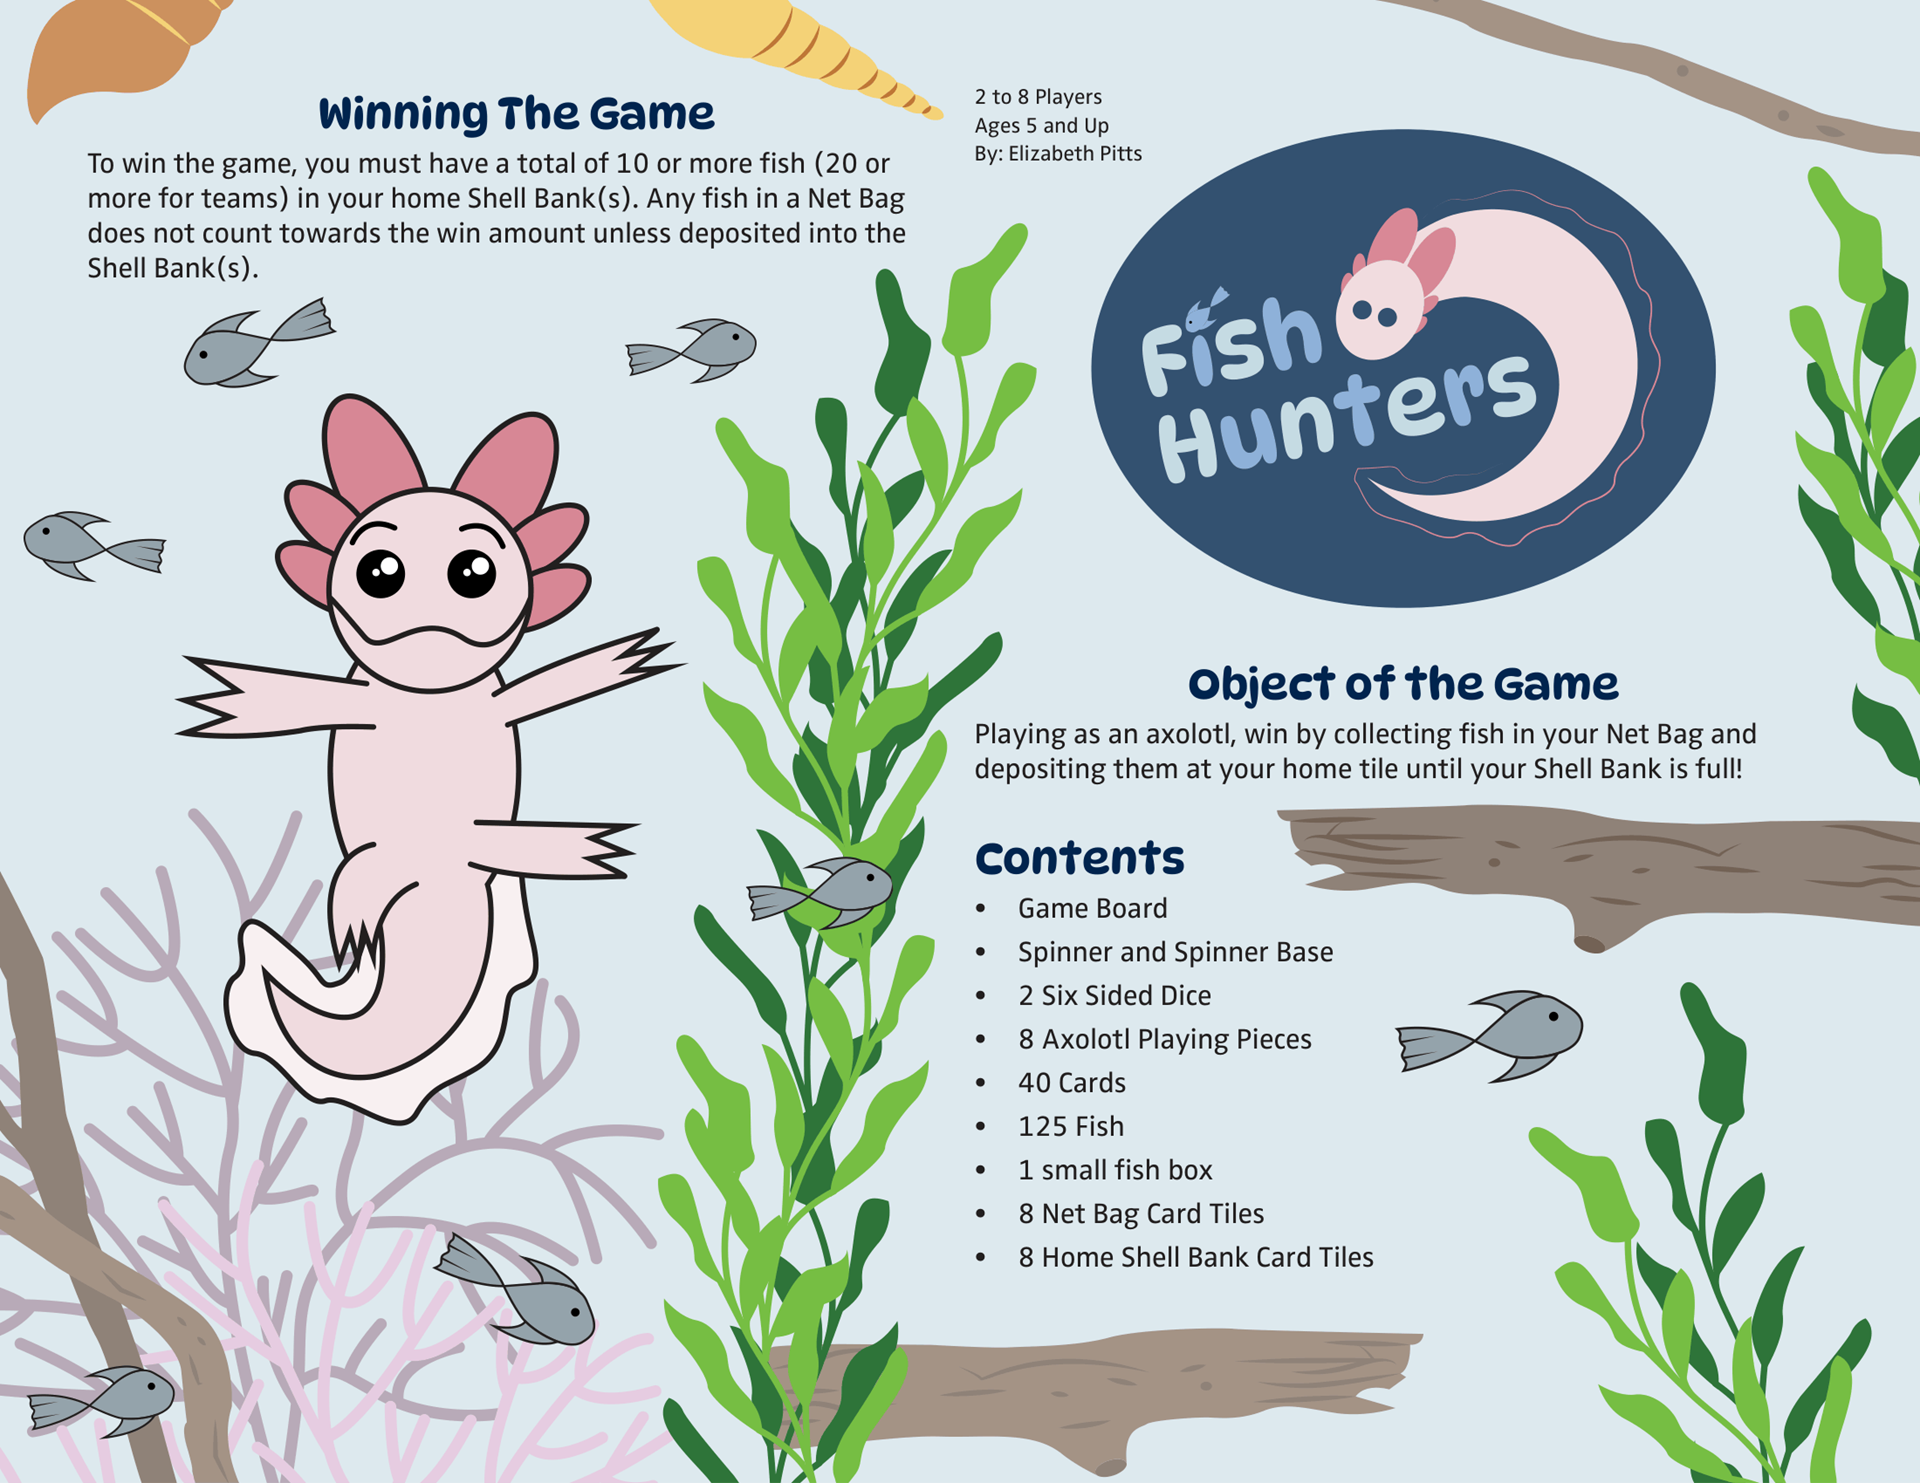
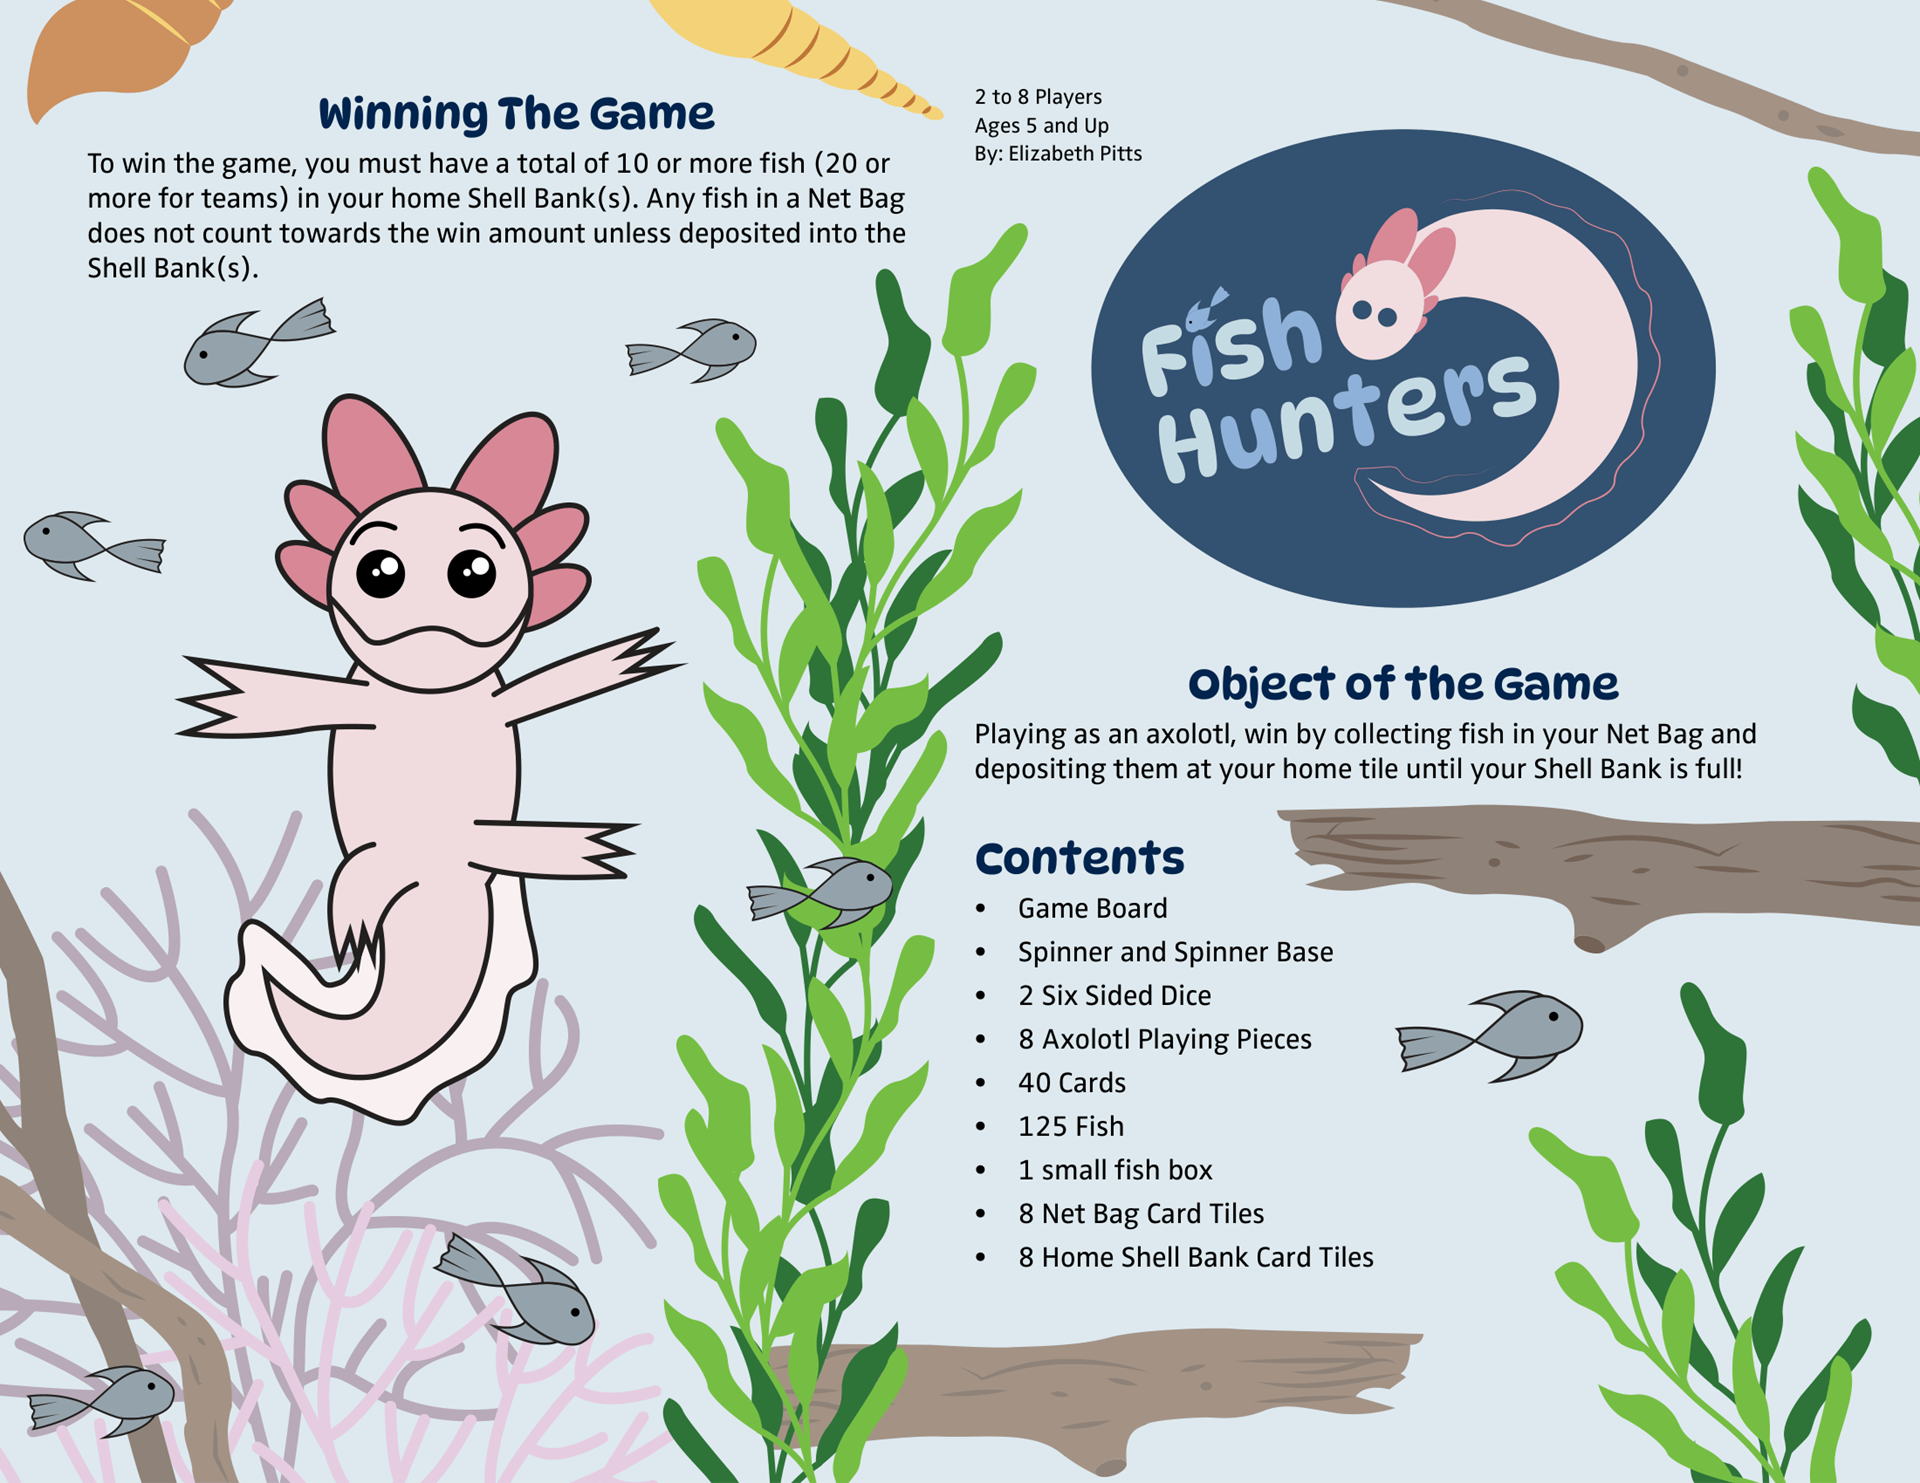
Fixing image Layouts

diff --git a/fish-hunters.html b/fish-hunters.html
@@ -48,16 +48,17 @@
 									<h2>Gameboard</h2>
 									<p>Fish Hunters is an original game concept developed and designed by LizBiz Designs, including a game board, playing pieces, cards and more! Starting with research after brain-storming a game idea, the layout of the board and the graphics for it was sketched out. During the designing phase, a challenege discovered was that the initial board design allowed for movement in any direction, but as the game developed, movement needed to flow in only one direction to support game play. To resolve this, the inital path structure was changed to better support movement in one direction.</p>
 													<div class="box alt">
-														<div class="row gtr-50 gtr-uniform">
-															<div class="col-4"><span class="image fit"><img src="images/Fish Hunters/Gameboard/gameboard-layout-sketch.jpg" alt="" /></span></div>
-															<div class="col-4"><span class="image fit"><img src="images/Fish Hunters/Gameboard/Envriomental graphics sketch.jpg" alt="" /></span></div>
-															<div class="col-4"><span class="image fit"><img src="images/Fish Hunters/Gameboard/revised-gameboard-sketch.jpg" alt="" /></span></div>
-															<!-- Break -->
-															<div class="col-4"><span class="image fit"><img src="images/Fish Hunters/Gameboard/Game Board wip ver 1.png" alt="" /></span></div>
-															<div class="col-4"><span class="image fit"><img src="images/Fish Hunters/Gameboard/game-path-draft-1.png" alt="" /></span></div>
-															<div class="col-4"><span class="image fit"><img src="images/Fish Hunters/Gameboard/game-path-draft-2.png" alt="" /></span></div>
+														 <ul class="actions fit">
+																<li><span class="image fit"><img src="images/Fish Hunters/Gameboard/gameboard-layout-sketch.jpg" alt="" /></span></li>
+																<li><span class="image fit"><img src="images/Fish Hunters/Gameboard/Envriomental graphics sketch.jpg" alt="" /></span></li>
+																<li><span class="image fit"><img src="images/Fish Hunters/Gameboard/revised-gameboard-sketch.jpg" alt="" /></span></li>
+															 </ul>
+															  <ul class="actions fit">
+																<li><span class="image fit"><img src="images/Fish Hunters/Gameboard/Game Board wip ver 1.png" alt="" /></span></li>
+																<li><span class="image fit"><img src="images/Fish Hunters/Gameboard/game-path-draft-1.png" alt="" /></span></li>
+																<li><span class="image fit"><img src="images/Fish Hunters/Gameboard/game-path-draft-2.png" alt="" /></span></li>
+															 </ul>
 															<span class="image fit"><img src="images/Fish Hunters/Gameboard/Fish Hunters Game Board 3.0.svg" alt="" /></span>
-														</div>
 													</div>
 									<a href="#" class="button primary fit">Back To Top</a>
 								</section>	
@@ -66,31 +67,35 @@
 									<h2 id="game-pieces">Game Pieces</h2>
 										<p>To support game-play, a deck of draw cards was needed, along side square cards used to hold the fish you would gain during play. The cards were created using Adobe Illustrator. Playing pieces were also needed and were created using polymer clay. The Instructions were drafted up and created in Adobe Indesign</p>
 													<div class="box alt">
-														<div class="row gtr-50 gtr-uniform">
-															<div class="col-4"><span class="image fit"><img src="images/Fish Hunters/Game Pieces/card-type-sketch.jpg" alt="" /></span></div>
-															<div class="col-4"><span class="image fit"><img src="images/Fish Hunters/Game Pieces/card-art-sketch.jpg" alt="" /></span></div>
-															<div class="col-4"><span class="image fit"><img src="images/Fish Hunters/Game Pieces/fish-hunters-logo-sketch.jpg" alt="" /></span></div>
-															<!-- Break -->
-															<div class="col-4"><span class="image fit"><img src="images/Fish Hunters/Game Pieces/card-design-wip-1.png" alt="" /></span></div>
-															<div class="col-4"><span class="image fit"><img src="images/Fish Hunters/Game Pieces/card-design-wip-2.png" alt="" /></span></div>
-															<div class="col-4"><span class="image fit"><img src="images/Fish Hunters/Game Pieces/instructions-closed.png" alt="" /></span></div>
-															<!-- Break -->
-															<div class="col-4"><span class="image fit"><img src="images/Fish Hunters/Game Pieces/art-cards.png" alt="" /></span></div>
-															<div class="col-4"><span class="image fit"><img src="images/Fish Hunters/Game Pieces/gain-cards.png" alt="" /></span></div>
-															<div class="col-4"><span class="image fit"><img src="images/Fish Hunters/Game Pieces/lose-cards.png" alt="" /></span></div>
+														 <ul class="actions fit">
+																<li><span class="image fit"><img src="images/Fish Hunters/Game Pieces/card-type-sketch.jpg" alt="" /></span></li>
+																<li><span class="image fit"><img src="images/Fish Hunters/Game Pieces/card-art-sketch.jpg" alt="" /></span></li>
+																<li><span class="image fit"><img src="images/Fish Hunters/Game Pieces/fish-hunters-logo-sketch.jpg" alt="" /></span></li>
+															 </ul>
+															  <ul class="actions fit">
+																<li><span class="image fit"><img src="images/Fish Hunters/Game Pieces/card-design-wip-1.png" alt="" /></span></li>
+																<li><span class="image fit"><img src="images/Fish Hunters/Game Pieces/card-design-wip-2.png" alt="" /></span></li>
+																<li><span class="image fit"><img src="images/Fish Hunters/Game Pieces/instructions-closed.png" alt="" /></span></li>
+															 </ul>
+															  <ul class="actions fit">
+																<li><span class="image fit"><img src="images/Fish Hunters/Game Pieces/art-cards.png" alt="" /></span></li>
+																<li><span class="image fit"><img src="images/Fish Hunters/Game Pieces/gain-cards.png" alt="" /></span></li>
+																<li><span class="image fit"><img src="images/Fish Hunters/Game Pieces/lose-cards.png" alt="" /></span></li>
+															 </ul>
 															<span class="image fit"><img src="images/Fish Hunters/Game Pieces/instructions-1.png" alt="" /></span>
 															<span class="image fit"><img src="images/Fish Hunters/Game Pieces/instructions-2.png" alt="" /></span>
-															<!-- Break -->
-															<div class="col-4"><span class="image fit"><img src="images/Fish Hunters/Axolotl Character sketches.jpg" alt="" /></span></div>
-															<div class="col-4"><span class="image fit"><img src="images/Fish Hunters/Game Pieces/game-pieces-sketch.jpg" alt="" /></span></div>
-															<div class="col-4"><span class="image fit"><img src="images/Fish Hunters/Game Pieces/axolotl-circle.png" alt="" /></span></div>
-															<!-- Break -->
-															<div class="col-4"><span class="image fit"><img src="images/Fish Hunters/Game Pieces/light-axolotls.png" alt="" /></span></div>
-															<div class="col-4"><span class="image fit"><img src="images/Fish Hunters/Game Pieces/dark-axolotls.png" alt="" /></span></div>
-															<div class="col-4"><span class="image fit"><img src="images/Fish Hunters/Game Pieces/spinner.png" alt="" /></span></div>
+															  <ul class="actions fit">
+																<li><span class="image fit"><img src="images/Fish Hunters/Axolotl Character sketches.jpg" alt="" /></span></li>
+																<li><span class="image fit"><img src="images/Fish Hunters/Game Pieces/game-pieces-sketch.jpg" alt="" /></span></li>
+																<li><span class="image fit"><img src="images/Fish Hunters/Game Pieces/axolotl-circle.png" alt="" /></span></li>
+															 </ul>
+															  <ul class="actions fit">
+																<li><span class="image fit"><img src="images/Fish Hunters/Game Pieces/light-axolotls.png" alt="" /></span></li>
+																<li><span class="image fit"><img src="images/Fish Hunters/Game Pieces/dark-axolotls.png" alt="" /></span></li>
+																<li><span class="image fit"><img src="images/Fish Hunters/Game Pieces/spinner.png" alt="" /></span></li>
+															 </ul>
 															<p>With all the pieces together and layed out with the gameboard, the game is able to be played.</p>
 															<span class="image fit"><img src="images/Fish Hunters/Gameboard/Game Layout 3.0.png" alt="" /></span>
-														</div>
 													</div>
 									<a href="#" class="button primary fit">Back To Top</a>
 								</section>
@@ -99,28 +104,32 @@
 									<h2 id="packaging">Packaging</h2>
 										<p>The next step in creating a game from the ground up, was to then design the packaging that would fit the game-board and all the supporting game-play pieces. A challenge while designing the packaging was to plan for all the pieces to fit into the packaging while keeping the packaging as small as possible to save on cost of material.</p>
 										<div class="box alt">
-														<div class="row gtr-50 gtr-uniform">
-															<div class="col-4"><span class="image fit"><img src="images/Fish Hunters/Packaging/gameboard lid.jpg" alt="" /></span></div>
-															<div class="col-4"><span class="image fit"><img src="images/Fish Hunters/Packaging/Cut templates for fish-1.png" alt="" /></span></div>
-															<div class="col-4"><span class="image fit"><img src="images/Fish Hunters/Packaging/Fish Box Graphics print format-1.png" alt="" /></span></div>
-															<!-- Break -->
-															<div class="col-4"><span class="image fit"><img src="images/Fish Hunters/Packaging/Packaging-outline-lid.png" alt="" /></span></div>
-															<div class="col-4"><span class="image fit"><img src="images/Fish Hunters/Packaging/package lid rough comp 1.png" alt="" /></span></div>
-															<div class="col-4"><span class="image fit"><img src="images/Fish Hunters/Packaging/Fish Hunters packaging Print Format-1.png" alt="" /></span></div>
-															<!-- Break -->
-															<div class="col-4"><span class="image fit"><img src="images/Fish Hunters/Packaging/packaging-wip-base.png" alt="" /></span></div>
-															<div class="col-4"><span class="image fit"><img src="images/Fish Hunters/Packaging/package base rough comp 1.png" alt="" /></span></div>
-															<div class="col-4"><span class="image fit"><img src="images/Fish Hunters/Packaging/Fish Hunters packaging Print Format-2.png" alt="" /></span></div>
-															<!-- Break -->
-															<div class="col-4"><span class="image fit"><img src="images/Fish Hunters/Packaging/Lid Side with Business Logo.png" alt="" /></span></div>
-															<div class="col-4"><span class="image fit"><img src="images/Fish Hunters/Packaging/Base Pink Side.png" alt="" /></span></div>
-															<div class="col-4"><span class="image fit"><img src="images/Fish Hunters/Packaging/Base Green Side.png" alt="" /></span></div>
-															<!-- Break -->
-															<div class="col-4"><span class="image fit"><img src="images/Fish Hunters/Packaging/Lid Side with Info.png" alt="" /></span></div>
-															<div class="col-4"><span class="image fit"><img src="images/Fish Hunters/Packaging/Base Orange Side.png" alt="" /></span></div>
-															<div class="col-4"><span class="image fit"><img src="images/Fish Hunters/Packaging/Base Brown Side.png" alt="" /></span></div>
+											<ul class="actions fit">
+																<li><span class="image fit"><img src="images/Fish Hunters/Packaging/gameboard lid.jpg" alt="" /></span></li>
+																<li><span class="image fit"><img src="images/Fish Hunters/Packaging/Cut templates for fish-1.png" alt="" /></span></li>
+																<li><span class="image fit"><img src="images/Fish Hunters/Packaging/Fish Box Graphics print format-1.png" alt="" /></span></li>
+															 </ul>
+															 <ul class="actions fit">
+																<li><span class="image fit"><img src="images/Fish Hunters/Packaging/Packaging-outline-lid.png" alt="" /></span></li>
+																<li><span class="image fit"><img src="images/Fish Hunters/Packaging/package lid rough comp 1.png" alt="" /></span></li>
+																<li><span class="image fit"><img src="images/Fish Hunters/Packaging/Fish Hunters packaging Print Format-1.png" alt="" /></span></li>
+															 </ul>
+															 <ul class="actions fit">
+																<li><span class="image fit"><img src="images/Fish Hunters/Packaging/packaging-wip-base.png" alt="" /></span></li>
+																<li><span class="image fit"><img src="images/Fish Hunters/Packaging/package base rough comp 1.png" alt="" /></span></li>
+																<li><span class="image fit"><img src="images/Fish Hunters/Packaging/Fish Hunters packaging Print Format-2.png" alt="" /></span></li>
+															 </ul>
+															 <ul class="actions fit">
+																<li><span class="image fit"><img src="images/Fish Hunters/Packaging/Lid Side with Business Logo.png" alt="" /></span></li>
+																<li><span class="image fit"><img src="images/Fish Hunters/Packaging/Base Pink Side.png" alt="" /></span></li>
+																<li><span class="image fit"><img src="images/Fish Hunters/Packaging/Base Green Side.png" alt="" /></span></li>
+															 </ul>
+															 <ul class="actions fit">
+																<li><span class="image fit"><img src="images/Fish Hunters/Packaging/Lid Side with Info.png" alt="" /></span></li>
+																<li><span class="image fit"><img src="images/Fish Hunters/Packaging/Base Orange Side.png" alt="" /></span></li>
+																<li><span class="image fit"><img src="images/Fish Hunters/Packaging/Base Brown Side.png" alt="" /></span></li>
+															 </ul>
 															<span class="image fit"><img src="images/Fish Hunters/Packaging/Base & Lid.png" alt="" /></span>
-														</div>
 													</div>
 									<a href="#" class="button primary fit">Back To Top</a>
 								</section>
@@ -129,22 +138,24 @@
 									<h2 id="app">E-commerce App</h2>
 										<p>The app mock up for Fish Hunters was designed in Figma. Utilizing Adobe Photoshop template mock ups, merch was able to be created to fill out the app and make it feel more real.</p>
 										<div class="box alt">
-														<div class="row gtr-50 gtr-uniform">
-															<span class="image fit"><img src="images/Fish Hunters/App/Wire Frames static.png" alt="" /></span>
-															<span class="image fit"><img src="images/Fish Hunters/App/Wire Frames Fuctional.png" alt="" /></span>
-															<div class="col-4"><span class="image fit"><img src="images/Fish Hunters/App/Wireframes test phone.png" alt="" /></span></div>
-															<div class="col-4"><span class="image fit"><img src="images/Fish Hunters/App/Thermal Water Bottle.png" alt="" /></span></div>
-															<div class="col-4"><span class="image fit"><img src="images/Fish Hunters/App/Axolotl Hoodie.png" alt="" /></span></div>
-															<!-- Break -->
-															<div class="col-4"><span class="image fit"><img src="images/Fish Hunters/App/T-shirt.png" alt="" /></span></div>
-															<div class="col-4"><span class="image fit"><img src="images/Fish Hunters/App/Cap Front.png" alt="" /></span></div>
-															<div class="col-4"><span class="image fit"><img src="images/Fish Hunters/App/Coffee Mugs.png" alt="" /></span></div>
-															<span class="image fit"><img src="images/Fish Hunters/App/UI UX Design.png" alt="" /></span>
-															<!-- Break -->
-															<div class="col-4"><span class="image fit"><img src="images/Fish Hunters/App/UI UX test main page.png" alt="" /></span></div>
-															<div class="col-4"><span class="image fit"><img src="images/Fish Hunters/App/UI UX Menu Test.png" alt="" /></span></div>
-															<div class="col-4"><span class="image fit"><img src="images/Fish Hunters/App/UI UX test.png" alt="" /></span></div>
-														</div>
+														<span class="image fit"><img src="images/Fish Hunters/App/Wire Frames static.png" alt="" /></span>
+														<span class="image fit"><img src="images/Fish Hunters/App/Wire Frames Fuctional.png" alt="" /></span>
+															<ul class="actions fit">
+																<li><span class="image fit"><img src="images/Fish Hunters/App/Wireframes test phone.png" alt="" /></span></li>
+																<li><span class="image fit"><img src="images/Fish Hunters/App/Thermal Water Bottle.png" alt="" /></span></li>
+																<li><span class="image fit"><img src="images/Fish Hunters/App/Axolotl Hoodie.png" alt="" /></span></li>
+															 </ul>
+															 <ul class="actions fit">
+																<li><span class="image fit"><img src="images/Fish Hunters/App/T-shirt.png" alt="" /></span></li>
+																<li><span class="image fit"><img src="images/Fish Hunters/App/Cap Front.png" alt="" /></span></li>
+																<li><span class="image fit"><img src="images/Fish Hunters/App/Coffee Mugs.png" alt="" /></span></li>
+															 </ul>
+															 <span class="image fit"><img src="images/Fish Hunters/App/UI UX Design.png" alt="" /></span>
+															 <ul class="actions fit">
+																<li><span class="image fit"><img src="images/Fish Hunters/App/UI UX test main page.png" alt="" /></span></li>
+																<li><span class="image fit"><img src="images/Fish Hunters/App/UI UX Menu Test.png" alt="" /></span></li>
+																<li><span class="image fit"><img src="images/Fish Hunters/App/UI UX test.png" alt="" /></span></li>
+															 </ul>
 													</div>
 									<a href="#" class="button primary fit">Back To Top</a>
 								</section>

diff --git a/s&a.html b/s&a.html
@@ -39,24 +39,26 @@
 									</header>
 									<p>At Highline College, Services & Activities requested a Logo be designed to represent a sense of collaboration around money. It also needed to incoperate The Center logo and colors into the design as The Center is the umbrella organization at Highline that S&A is under.</p>
 													<div class="box alt">
-														<div class="row gtr-50 gtr-uniform">
-															<div class="col-4"><span class="image fit"><img src="images/Logos&Branding/S&A/S&A Sketches.jpg" alt="" /></span></div>
-															<div class="col-4"><span class="image fit"><img src="images/Logos&Branding/S&A/Artboard 1.png" alt="" /></span></div>
-															<div class="col-4"><span class="image fit"><img src="images/Logos&Branding/S&A/Artboard 2.png" alt="" /></span></div>
-															<!-- Break -->
-															<div class="col-4"><span class="image fit"><img src="images/Logos&Branding/S&A/Artboard 3.png" alt="" /></span></div>
-															<div class="col-4"><span class="image fit"><img src="images/Logos&Branding/S&A/Artboard 4.png" alt="" /></span></div>
-															<div class="col-4"><span class="image fit"><img src="images/Logos&Branding/S&A/Artboard 5.png" alt="" /></span></div>
-															<!-- Break -->
-															<div class="col-4"><span class="image fit"><img src="images/Logos&Branding/S&A/Icon-Black.svg" alt="" /></span></div>
-															<div class="col-4"><span class="image fit"><img src="images/Logos&Branding/S&A/Icon-White.svg" style="background-color:black; outline: 7px solid black;" alt="" /></span></div>
-															<div class="col-4"><span class="image fit"><img src="images/Logos&Branding/S&A/Icon-Color.svg" alt="" /></span></div>
+														<ul class="actions fit">
+																<li><span class="image fit"><img src="images/Logos&Branding/S&A/S&A Sketches.jpg" alt="" /></span></li>
+																<li><span class="image fit"><img src="images/Logos&Branding/S&A/Artboard 1.png" alt="" /></span></li>
+																<li><span class="image fit"><img src="images/Logos&Branding/S&A/Artboard 2.png" alt="" /></span></li>
+															 </ul>
+															 <ul class="actions fit">
+																<li><span class="image fit"><img src="images/Logos&Branding/S&A/Artboard 3.png" alt="" /></span></li>
+																<li><span class="image fit"><img src="images/Logos&Branding/S&A/Artboard 4.png" alt="" /></span></li>
+																<li><span class="image fit"><img src="images/Logos&Branding/S&A/Artboard 5.png" alt="" /></span></li>
+															 </ul>
+															 <ul class="actions fit">
+																<li><span class="image fit"><img src="images/Logos&Branding/S&A/Icon-Black.svg" alt="" /></span></li>
+																<li><span class="image fit"><img src="images/Logos&Branding/S&A/Icon-White.svg" style="background-color:black; outline: 7px solid black;" alt="" /></span></li>
+																<li><span class="image fit"><img src="images/Logos&Branding/S&A/Icon-Color.svg" alt="" /></span></li>
+															 </ul>
 															<ul class="actions fit">
 																<li><span class="image fit"><img src="images/Logos&Branding/S&A/Lockup-Black.svg" alt="" /></span></li>
 																<li><span class="image fit"><img src="images/Logos&Branding/S&A/Lockup-White.svg" style="background-color:black; outline: 7px solid black;" alt="" /></span></li>
 															</ul>
-															<span class="image fit"><img src="images/Logos&Branding/S&A/Lockup-Color.svg" style="width: 75%; height: auto;" alt="" /></span>
-														</div>
+															<span class="image fit"><img src="images/Logos&Branding/S&A/Lockup-Color.svg" style="width: 75%; height: auto; display: block; margin-left: auto; margin-right: auto;" alt="" /></span>
 													</div>
 									<a href="#" class="button primary fit">Back To Top</a>
 								</section>

diff --git a/encounter.html b/encounter.html
@@ -52,12 +52,12 @@
 														<li><span class="image fit"><img src="images/Encounter/encounter thumbnails 1.jpg" alt="" /></span></li>
 														<li><span class="image fit"><img src="images/Encounter/encounter thumbnails 2.jpg" alt="" /></span></li>
 													</ul>
-														<div class="row gtr-50 gtr-uniform">
-															<div class="col-4"><span class="image fit"><img src="images/Encounter/character lineup sketch.jpg" alt="" /></span></div>
-															<div class="col-4"><span class="image fit"><img src="images/Encounter/Character line up Sketch.jpg" alt="" /></span></div>
-															<div class="col-4"><span class="image fit"><img src="images/Encounter/Character line up Line Art.jpg" alt="" /></span></div>
+													<ul class="actions fit">
+														<li><span class="image fit"><img src="images/Encounter/character lineup sketch.jpg" alt="" /></span></li>
+														<li><span class="image fit"><img src="images/Encounter/Character line up Sketch.jpg" alt="" /></span></li>
+														<li><span class="image fit"><img src="images/Encounter/Character line up Line Art.jpg" alt="" /></span></li>
+													</ul>
 															<span class="image fit"><img src="images/Encounter/Character line up.jpg" alt="" /></span>
-														</div>
 													</div>
 									<a href="#" class="button primary fit">Back To Top</a>
 								</section>
@@ -81,13 +81,13 @@
 																<li><span class="image fit"><img src="images/Encounter/encounter cabin sketch.jpg" alt="" /></span></li>
 																<li><span class="image fit"><img src="images/Encounter/encounter cabin loft.jpg" alt="" /></span></li>
 															 </ul>
+															 <ul class="actions fit">
+																<li><span class="image fit"><img src="images/Encounter/Quinnah's Loft Sketch.jpg" alt="" /></span></li>
+																<li><span class="image fit"><img src="images/Encounter/Quinnah's Loft Line Art.jpg" alt="" /></span></li>
+																<li><span class="image fit"><img src="images/Encounter/Quinnah's Loft Flat Colors.jpg" alt="" /></span></li>
+															 </ul>
 										<div class="box alt">
-													<div class="row gtr-50 gtr-uniform">
-														<div class="col-4"><span class="image fit"><img src="images/Encounter/Quinnah's Loft Sketch.jpg" alt="" /></span></div>
-														<div class="col-4"><span class="image fit"><img src="images/Encounter/Quinnah's Loft Line Art.jpg" alt="" /></span></div>
-														<div class="col-4"><span class="image fit"><img src="images/Encounter/Quinnah's Loft Flat Colors.jpg" alt="" /></span></div>
 														<span class="image fit"><img src="images/Encounter/Quinnah's Loft ver 2.png" alt="" /></span>
-													</div>
 												</div>
 									<a href="#" class="button primary fit">Back To Top</a>
 								</section>

diff --git a/sla.html b/sla.html
@@ -47,15 +47,16 @@
 									<h2 id="slide">Slide Backgrounds</h2>
 									<p>These slides were created with Canva in mind as the end use case for these backgrounds.</p>
 													<div class="box alt">
-														<div class="row gtr-50 gtr-uniform">
-															<div class="col-4"><span class="image fit"><img src="images/SLA/Canva Slide backgrounds.png" alt="" /></span></div>
-															<div class="col-4"><span class="image fit"><img src="images/SLA/Canva Slide backgrounds2.png" alt="" /></span></div>
-															<div class="col-4"><span class="image fit"><img src="images/SLA/Canva Slide backgrounds3.png" alt="" /></span></div>
-															<!-- Break -->
-															<div class="col-4"><span class="image fit"><img src="images/SLA/Canva Slide backgrounds4.png" alt="" /></span></div>
-															<div class="col-4"><span class="image fit"><img src="images/SLA/Canva Slide backgrounds5.png" alt="" /></span></div>
-															<div class="col-4"><span class="image fit"><img src="images/SLA/Canva Slide backgrounds6.png" alt="" /></span></div>
-														</div>
+														<ul class="actions fit">
+																<li><span class="image fit"><img src="images/SLA/Canva Slide backgrounds.png" alt="" /></span></li>
+																<li><span class="image fit"><img src="images/SLA/Canva Slide backgrounds2.png" alt="" /></span></li>
+																<li><span class="image fit"><img src="images/SLA/Canva Slide backgrounds3.png" alt="" /></span></li>
+															 </ul>
+															 <ul class="actions fit">
+																<li><span class="image fit"><img src="images/SLA/Canva Slide backgrounds4.png" alt="" /></span></li>
+																<li><span class="image fit"><img src="images/SLA/Canva Slide backgrounds5.png" alt="" /></span></li>
+																<li><span class="image fit"><img src="images/SLA/Canva Slide backgrounds6.png" alt="" /></span></li>
+															 </ul>
 													</div>
 									<a href="#" class="button primary fit">Back To Top</a>
 								</section>	

diff --git a/event-posters.html b/event-posters.html
@@ -48,13 +48,16 @@
 														<li><h4>Flyer</h4><span class="image fit"><img src="images/Flyers/mc-build-battle.png" alt="" /></span></li>
 													</ul>
 													<ul class="actions fit">
-														<li><h4>Poster & Sandwich Board</h4><span class="image fit"><img src="images/Flyers/Winter 2026 Thunderweek.png" alt="" /></span></li>
-														<li><h4>Poster & Sandwich Board</h4><span class="image fit"><img src="images/Flyers/GSA-backyard-bash.png" alt="" /></span></li>
-													</ul>
-													<ul class="actions fit">
 														<li><h4>Flyer & Sandwich Board</h4><span class="image fit"><img src="images/Flyers/The Noodle Network.png" alt="" /></span></li>
 														<li><h4>Flyer & Sandwich Board</h4><span class="image fit"><img src="images/Flyers/Legislative Breakfast 2025.png" alt="" /></span></li>
-														
+													</ul>
+													<ul class="actions fit">
+														<li><h4>Poster & Sandwich Board</h4><span class="image fit"><img src="images/Flyers/Winter 2026 Thunderweek.png" alt="" /></span></li>
+														<li><h4>Flyer</h4><span class="image fit"><img src="images/Flyers/PSC Inside Journalism Final.png" alt="" /></span></li>
+													</ul>
+													<ul class="actions fit">
+														<li><h4>Poster & Sandwich Board</h4><span class="image fit"><img src="images/Flyers/GSA-backyard-bash.png" alt="" /></span></li>
+														<li><h4>Sandwich Board</h4><span class="image fit"><img src="images/Flyers/GSA Backyard Bash DIRECTIONAL SIGNAGE-1.png" alt="" /></span></li>
 													</ul>
 									<a href="#" class="button primary fit">Back To Top</a>
 								</section>

diff --git a/cru-mug.html b/cru-mug.html
@@ -39,9 +39,14 @@
 									</header>
 									<p>The objective when creating a vector artwork of the heart of Highline College campus, requested by Highline Cru, was to eventually have it printed on mugs. A challenged faced while designing was how to simplify designs from reality into vector, and what to keep, to what to omit from the location.</p>
 									<span class="image fit"><img src="images/Cru/Mug Sketch.jpg" alt="" /></span>
-													<p><span class="image left"><img src="images/Cru/Highline-mug-building-sketches.jpg" alt="" /></span>The first step in designing the artwork of the heart of Highline College campus, was to visit the location and sketch out the building designs, pulling out the main shapes and important details of the surroundings. Photos were also taken for reference later. The next step was to take those designs and use the mug template to find the best layout.</p>
-													<p><span class="image right"><img src="images/Cru/Cru-mug-gray-draft.png" alt="" /></span>Scanning the layout sketch to digitalize it and dropping it into adobe illustrator, the process of transforming the sketch into vector began. Grayscale was used in the fist step of vectorizing to focus on shapes and layout.</p>
-													<p><span class="image right"><img src="images/Cru/Cru-mug-color-draft.png" alt="" /></span>When most of the layout and the shapes had been finalized, the next part was to start on color. The inspiration for the color pallet was Washinton's cloudy grey skys, the lush evergreens and the beautiful colors of the Highline College campus during autumn.</p>
+									<p>The first step in designing the artwork of the heart of Highline College campus, was to visit the location and sketch out the building designs, pulling out the main shapes and important details of the surroundings. Photos were also taken for reference later. The next step was to take those designs and use the mug template to find the best layout.</p>
+									<ul class="actions fit">
+																<li><span class="image fit"><img src="images/cru/Highline-mug-building-sketches.jpg" alt="" /></span></li>
+																<li><span class="image fit"><img src="images/cru/Cru-mug-gray-draft.png" alt="" /></span></li>
+																<li><span class="image fit"><img src="images/cru/Cru-mug-color-draft.png" alt="" /></span></li>
+															 </ul>
+															 <p>Scanning the layout sketch to digitalize it and dropping it into adobe illustrator, the process of transforming the sketch into vector began. Grayscale was used in the fist step of vectorizing to focus on shapes and layout.</p>
+															 <p>When most of the layout and the shapes had been finalized, the next part was to start on color. The inspiration for the color pallet was Washinton's cloudy grey skys, the lush evergreens and the beautiful colors of the Highline College campus during autumn.</p>
 									<span class="image fit"><img src="images/Cru/Cru Mug Graphic.svg" alt="" /></span>
 									<span class="image fit"><img src="images/Cru/Cru Mug Mock Up.jpg" alt="" /></span>
 									<a href="#" class="button primary fit">Back To Top</a>

diff --git a/illustration.html b/illustration.html
@@ -52,11 +52,11 @@
 									<h2 id="coloring">Coloring Pages</h2>
 									<p>Highline College requested coloring pages be designed for the college's different pathways to be used at events, and to eventually be made into a coloring book.</p>
 									<div class="box alt">
-														<div class="row gtr-50 gtr-uniform">
-															<div class="col-4"><span class="image fit"><h4>Final Art & Design Page</h4><img src="images/Illustrations/A&D Coloring Page.png" alt="" /></span></div>
-															<div class="col-4"><span class="image fit"><h4>Sketch of Nursing Page</h4><img src="images/Illustrations/Coloring Page Nursing Sketch.jpg" alt="" /></span></div>
-															<div class="col-4"><span class="image fit"><h4>Final Nursing Page</h4><img src="images/Illustrations/Nursing, MA, Resp Care Coloring Page.png" alt="" /></span></div>
-														</div>
+										<ul class="actions fit">
+																<li><span class="image fit"><h4>Final Art & Design Page</h4><img src="images/Illustrations/A&D Coloring Page.png" alt="" /></span></li>
+																<li><span class="image fit"><h4>Sketch of Nursing Page</h4><img src="images/Illustrations/Coloring Page Nursing Sketch.jpg" alt="" /></span></li>
+																<li><span class="image fit"><h4>Final Nursing Page</h4><img src="images/Illustrations/Nursing, MA, Resp Care Coloring Page.png" alt="" /></span></li>
+															 </ul>
 													</div>
 									<a href="#" class="button primary fit">Back To Top</a>
 								</section>

diff --git a/starbucks-cup.html b/starbucks-cup.html
@@ -48,11 +48,11 @@
 														<li><span class="image fit"><img src="images/Starbucks cup/Starbucks cup refresher drinks-1-Strawberry Swig.png" alt="" /></span></li>
 													</ul>
 													<div class="box alt">
-														<div class="row gtr-50 gtr-uniform">
-															<div class="col-4"><span class="image fit"><img src="images/Starbucks cup/Strawberry Cold Cup Vector-1.png" alt="" /></span></div>
-															<div class="col-4"><span class="image fit"><img src="images/Starbucks cup/Strawberry Cold Cup Vector-2.png" alt="" /></span></div>
-															<div class="col-4"><span class="image fit"><img src="images/Starbucks cup/Strawberry Cold Cup Vector-3.png" alt="" /></span></div>
-														</div>
+														<ul class="actions fit">
+																<li><span class="image fit"><img src="images/Starbucks cup/Strawberry Cold Cup Vector-1.png" alt="" /></span></li>
+																<li><span class="image fit"><img src="images/Starbucks cup/Strawberry Cold Cup Vector-2.png" alt="" /></span></li>
+																<li><span class="image fit"><img src="images/Starbucks cup/Strawberry Cold Cup Vector-3.png" alt="" /></span></li>
+															 </ul>
 													</div>
 													<ul class="actions fit">
 														<li><span class="image fit"><img src="images/Starbucks cup/ver 0 (all) Starbucks Cold Cup.png" alt="" /></span></li>